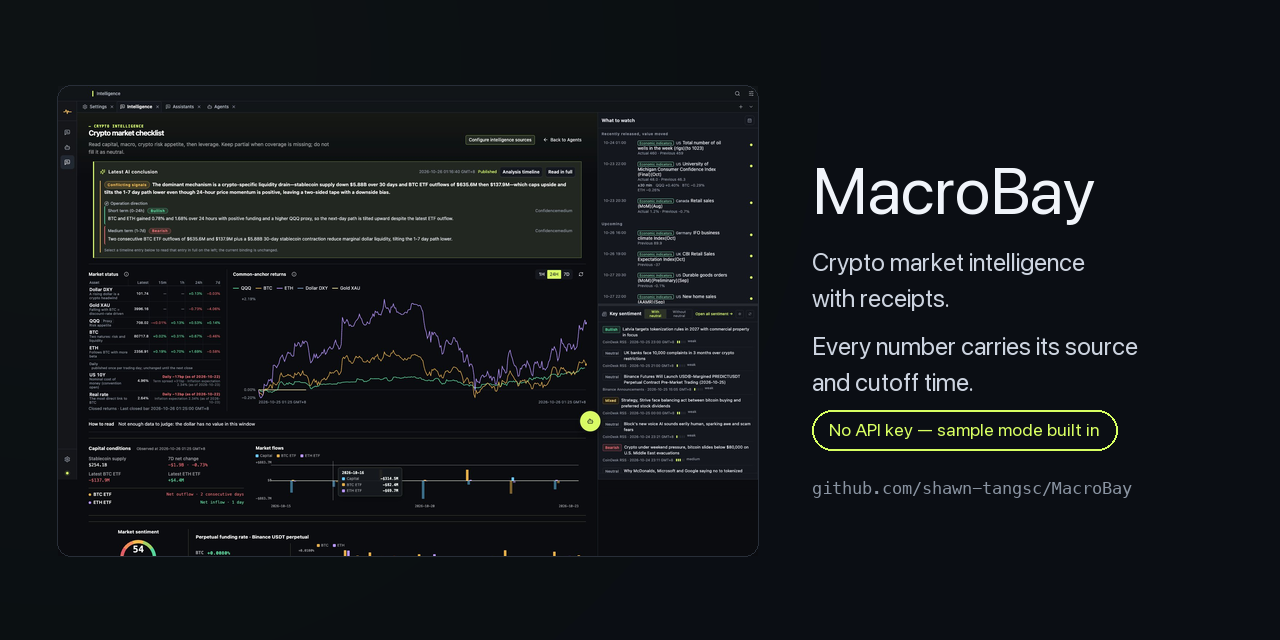
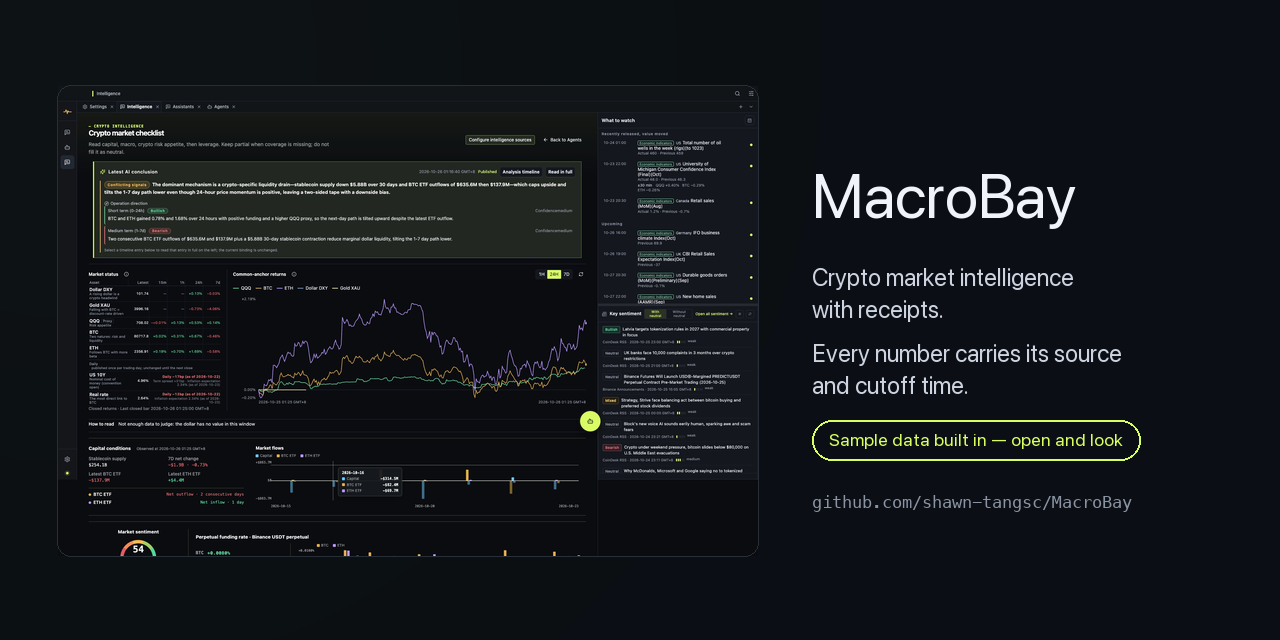
docs: scope the no-key claim to sample mode
The badge and the README both read as if the app needed no credentials at all.
Sample mode needs none; live panels still need a model provider and data-source
keys, so say that where the claim appears.

diff --git a/README.md b/README.md
@@ -59,9 +59,10 @@ The build is unsigned. On macOS, right-click the app → **Open**, or run
 `xattr -dr com.apple.quarantine /Applications/MacroBay.app`. On Windows, choose
 **More info → Run anyway** in the SmartScreen prompt.
 
-**No API key?** Open the app and choose **Sample mode → Open sample dashboard**. It replays one
+**No API key yet?** Open the app and choose **Sample mode → Open sample dashboard**. It replays one
 recorded real week — dashboard, funding, stablecoins, ETF flows, two calendar months and three
-published analyses — labelled *Sample data*, and writes nothing into your database.
+published analyses — labelled *Sample data*, and writes nothing into your database. Live panels still
+need your own model provider and data-source credentials.
 
 Built for people whose read has to survive a follow-up question — whether that is your first cycle or your fourth.
 
